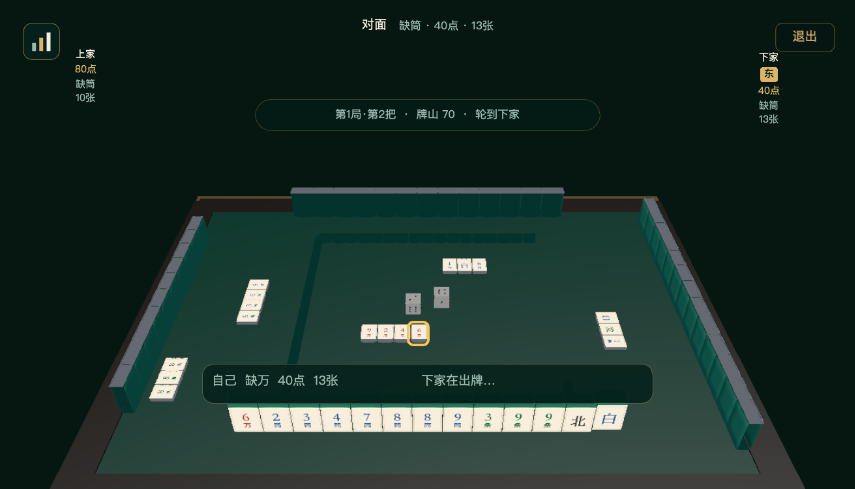
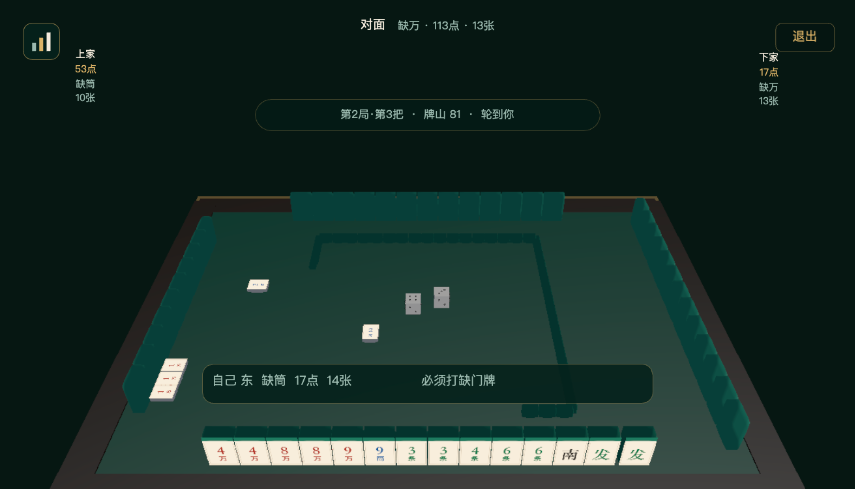
fix(layair): 四家手牌离桌沿统一一张牌厚，摸牌与手牌对齐
- 四家手牌离桌沿统一留 TILE_T（28，牌体中心 = 桌沿 - 28 - 14）。
  早先自家留 120、对门 22、左右 18：近处的自己离桌边特别远，
  另外三家却卡在桌沿上，四家看着完全不齐。
- 摸牌不再整只抬高 8（透视里看着像往后缩、和其它牌不齐），
  改成只往右让 7，底部仍和手牌齐平；点击区域同步收紧。
- 修牌背一直"消失"的渲染坑：薄面板（厚 1.7）套 BlinnPhong 时法线
  在厚度上退化，整组手牌一起不渲染。牌背改用亮一档的绿牌体
  （#3C9374，不再贴任何面板），与牌墙的深绿区分开。
- README 记录手牌留白口径与牌背渲染坑；3D 牌桌截图更新。

diff --git a/layair/src/ui/Table3D.ts b/layair/src/ui/Table3D.ts
@@ -29,7 +29,17 @@ const FLAT_W = 38
 const FLAT_D = 50
 const TABLE_W = 1280
 const TABLE_D = 900
-const SELF_HAND_Z = TABLE_D / 2 - 120
+/**
+ * 手牌离桌沿的留白：四家统一一张牌厚（TILE_T）。
+ * 牌是立着的，沿「朝向桌心」那个轴的厚度就是 TILE_T，
+ * 所以牌体中心 = 桌沿 - 留白 - TILE_T / 2。
+ * （早先自家留 120、其它三家只留 4~22：近处的自己离桌边特别远，
+ * 另外三家却卡在桌沿上，四家看着完全不齐。）
+ */
+const HAND_EDGE_GAP = TILE_T
+const HAND_Z_SELF = TABLE_D / 2 - HAND_EDGE_GAP - TILE_T / 2
+const HAND_Z_OPP = -HAND_Z_SELF
+const HAND_X_SIDE = TABLE_W / 2 - HAND_EDGE_GAP - TILE_T / 2
 const WALL_SIDE = 600
 const STACKS = 17
 const WALL_STEP = WALL_SIDE / STACKS
@@ -335,11 +345,14 @@ export class Table3D {
     drawn = false
   ) {
     const group = new Laya.Sprite3D()
-    group.transform.position = new Laya.Vector3(x, y + (drawn ? 8 : 0), z)
+    group.transform.position = new Laya.Vector3(x, y, z)
     group.transform.rotationEuler = new Laya.Vector3(0, rotationY, 0)
     parent.addChild(group)
 
-    const bodyColor = faceUp ? '#2F7A5E' : '#2F7A5E'
+    // 牌背（对家/左右家）直接用亮一档的绿牌体，不再贴任何面板：
+    // 薄面板一旦套 BlinnPhong 材质，法线在 1.7 的厚度上退化，整组手牌会一起不渲染
+    //（牌背一直"消失"就是这个），想加牌背贴图只能等换 Unlit 贴图管线再试。
+    const bodyColor = faceUp ? '#2F7A5E' : '#3C9374'
     this.addRounded(TILE_W, TILE_H, TILE_T, 4.5, this.bodyMaterial(bodyColor), 0, 0, 0, group)
 
     if (faceUp) {
@@ -352,20 +365,6 @@ export class Table3D {
         0,
         0,
         TILE_T / 2 + 0.9,
-        group
-      )
-    } else {
-      // 牌背：白顶 + 绿色牌背，牌背朝相机
-      this.addRounded(TILE_W, 3, TILE_T, 1.2, this.bodyMaterial(COLORS.ivory), 0, TILE_H / 2 - 1.5, 0, group)
-      this.addRounded(
-        TILE_W - 1.5,
-        TILE_H - 5,
-        1.7,
-        0.85,
-        this.bodyMaterial('#3C9374'),
-        0,
-        -2,
-        TILE_T / 2 + 0.8,
         group
       )
     }
@@ -430,15 +429,16 @@ export class Table3D {
     for (let i = 0; i < tiles.length; i += 1) {
       const tile = tiles[i]
       if (seat === 0) {
-        const x = startX + i * step
-        this.addStandingTile(tile, x, TILE_H / 2 + 2, SELF_HAND_Z, faceUp, this.dynamicRoot, 0, i === drawnIndex)
-        this.recordSelfHit(tile, i, x, TILE_H / 2 + (i === drawnIndex ? 10 : 2), SELF_HAND_Z, i === drawnIndex)
+        // 刚摸到的牌只往右让一点，底部仍和手牌齐平（原先整只抬高 8，看着像往后缩）
+        const x = startX + i * step + (i === drawnIndex ? 7 : 0)
+        this.addStandingTile(tile, x, TILE_H / 2 + 2, HAND_Z_SELF, faceUp, this.dynamicRoot, 0, i === drawnIndex)
+        this.recordSelfHit(tile, i, x, TILE_H / 2 + 2, HAND_Z_SELF, i === drawnIndex)
       } else if (seat === 2) {
         const x = startX + i * step
-        this.addStandingTile(tile, x, TILE_H / 2 + 2, -TABLE_D / 2 + 22, faceUp, this.dynamicRoot, faceUp ? 0 : 180)
+        this.addStandingTile(tile, x, TILE_H / 2 + 2, HAND_Z_OPP, faceUp, this.dynamicRoot, faceUp ? 0 : 180)
       } else {
         const z = startX + i * step
-        const x = seat === 3 ? -TABLE_W / 2 + 18 : TABLE_W / 2 - 18
+        const x = seat === 3 ? -HAND_X_SIDE : HAND_X_SIDE
         this.addStandingTile(tile, x, TILE_H / 2 + 2, z, faceUp, this.dynamicRoot, faceUp ? 0 : seat === 3 ? 90 : -90)
       }
     }

diff --git a/layair/README.md b/layair/README.md
@@ -42,6 +42,11 @@
 - **累计战绩 / 存档**：左上角图表图标打开累计战绩（每家成牌次数、成牌点数、大/小摸子、输赢金额）。右上角退出会询问「保留并退出 / 清空并退出」；保留会把当前牌局和战绩写入 LayaAir / 微信本地存储，下次进入从当前继续；清空等于重置。
 - **牌墙**：摸走哪一层就空哪一层；两层牌之间、相邻墩之间留细小间隙；只剩上层/只剩下层时只占半格高度，墙上会留下真实的缺口。
 - **手牌**：四家手牌紧挨排列，牌体圆角、间隙极小，既有分隔又不会散开。
+  四家离桌沿统一留一张牌厚（28，牌体中心 = 桌沿 - 28 - 14）；早先自家留 120、其它三家只留 4~22，
+  近处的自己离桌边特别远，另外三家却卡在桌沿上。刚摸到的牌只往右让一点，底部仍和手牌齐平。
+- **牌背渲染坑**：对家 / 左右家的牌背直接用亮一档的绿牌体（#3C9374），不再贴薄面板——
+  薄面板（厚 1.7）一旦套 BlinnPhong 材质，法线在厚度上退化，**整组手牌会一起不渲染**；
+  UnlitMaterial 不受影响。想给牌背加贴图，得走 Unlit 贴图管线。
 - **牌河 / 副露**：打出去的牌和碰杠亮出的牌同样无缝排列——列距 = 牌宽（38）、行距 = 牌深（50），
   跟手牌同一套步长；左右家整块转 90° 后宽深互换，仍按这两个步长走。早先牌河用的是 52 的固定步长，
   比牌宽多出 14，看着一张一张散开。
